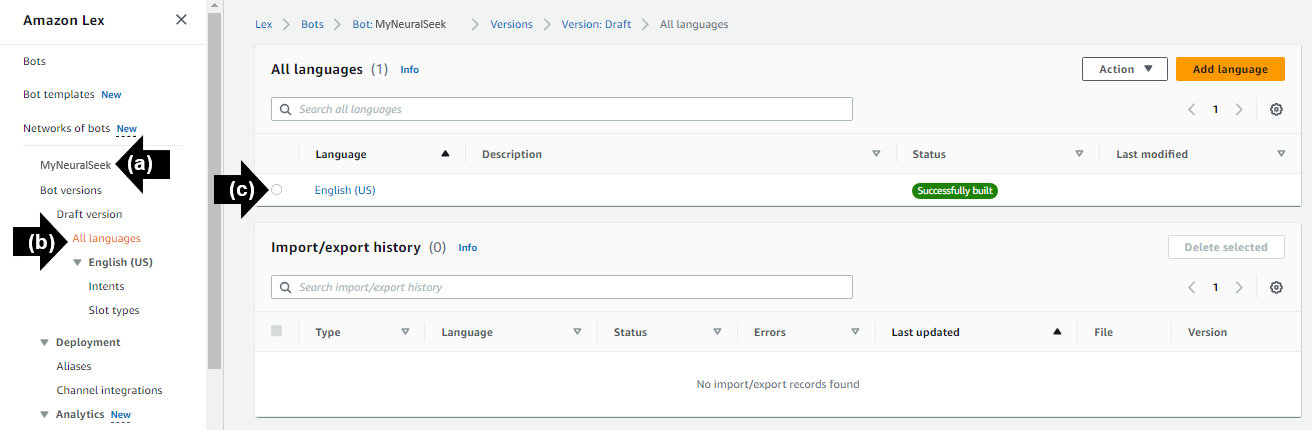
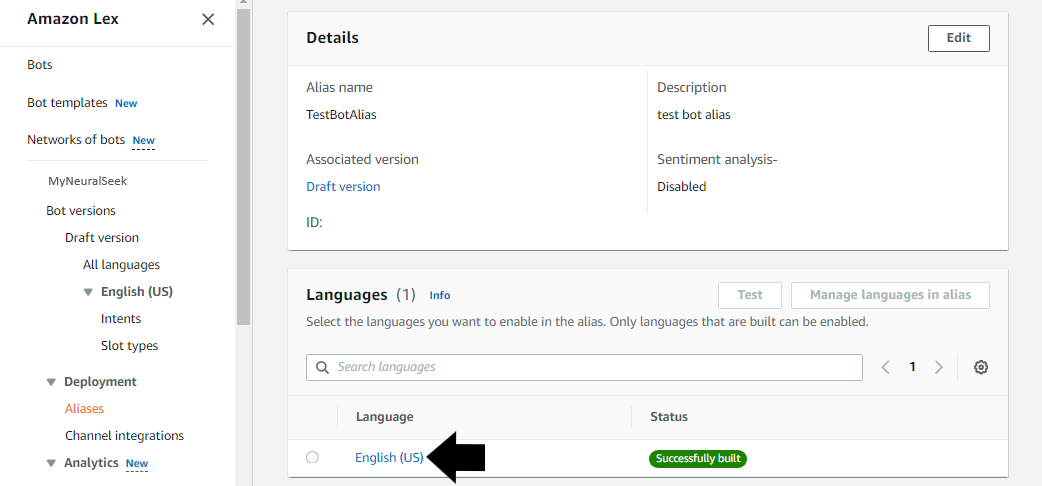
added images

diff --git a/docs/module1/module1_aws/module1-3/module1-3.md b/docs/module1/module1_aws/module1-3/module1-3.md
@@ -85,27 +85,25 @@ For detailed information on creating a LexV2 Lambda bot from scratch, refer to t
 Open the [Amazon Lex console.](https://console.aws.amazon.com/lexv2/home#bots) From the list of bots, choose the name of the bot that you want to use.
 
 - **(a)** On the left side bar menu, under “Deployment”, click “Aliases”.
-- **(b)** From the list of alias names, choose the alias name that you want to use. For this lab, we recommend “TestBotAlias”
+- **(b)** From the list of alias names, choose the alias name that you want to use. For this lab, we recommend “**TestBotAlias**”
 
 ![images1.5.11](images/image1.5.11.png)
 
 ## Select Lanaguage
 
-Open the [Amazon Lex console.](https://console.aws.amazon.com/lexv2/home#bots).
+Under the chosen Alias, "**TestBotAlias**" within the [Amazon Lex console](https://console.aws.amazon.com/lexv2/home#bots):
 
-- **(a)** From the list of bots, click the name of the bot that you want to use. 
-- **(b)** On the left side bar menu, click the “Languages” tab.
-- **(c)** From the list of supported languages, click the language that the Lambda function is used for. For this lab, we recommend “**English**”.
+- **(a)** From the list of supported languages, click the language that the Lambda function is used for. For this lab, we recommend “**English**”.
 
 ![image1.5.17](images/image1.5.17.png)
 
 ## Optional Lambda Function Connection
 
-Choose the name of the Lambda function to use, then choose the version or alias of the function. 
+- **(a)** Under "Source", click the name of the alias of the Lambda function to use. For this lab, we recommend "**MyNeuralSeek**”. 
+- **(b)** Under "Lambda function version or alias", the option "**$LATEST**" will populate. 
+- **(c)** Click “Save”.
 
-For this lab, we recommend "**MyNeuralSeek**”. 
-
-Click “Save”.
+![image1.5.18](images/image1.5.18.png)
 
 ## Fallback Activities
 
